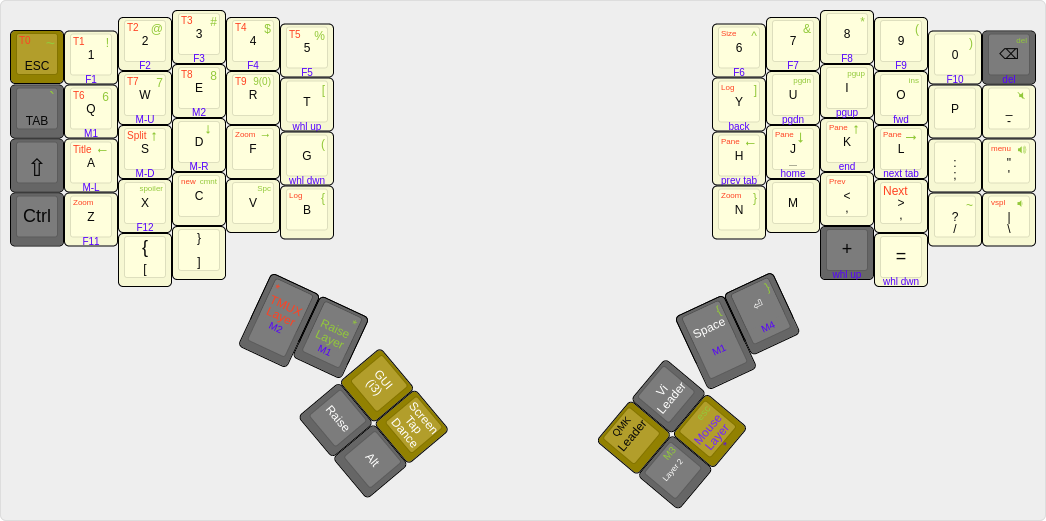
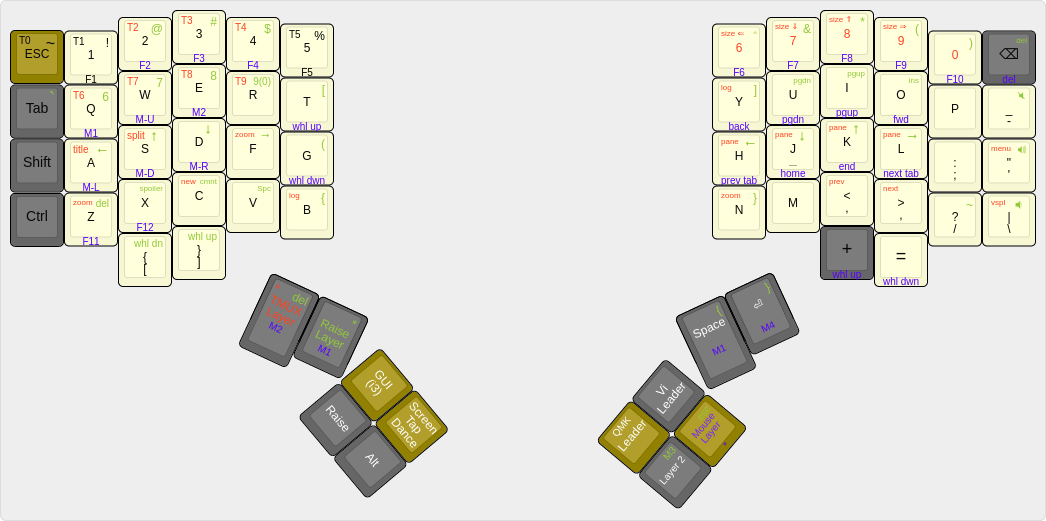
updated keymap and layout-editor files

diff --git a/keymaps/dactyl/keymap.c b/keymaps/dactyl/keymap.c
@@ -13,6 +13,8 @@
 #define _MLAYER 3
 #define _NUMLAY 4
 #define _TMUXLAY 5
+#define _LEFTONLY 6
+#define _RGHTONLY 7
 
 #define RAISE MO(_RAISE)
 #define LAYER2 MO(_LAYER2)
@@ -578,13 +580,14 @@ bool process_record_user(uint16_t keycode, keyrecord_t *record) {
             // when keycode is released
         }
         break;
-    case LOGCOM:
-        if (record->event.pressed) {
-
-        } else {
-            // when keycode is released
-        }
-        break;
+// Template
+//     case LOGCOM:
+//         if (record->event.pressed) {
+// 
+//         } else {
+//             // when keycode is released
+//         }
+//         break;
   }
     return true;
 };
@@ -750,7 +753,7 @@ const uint16_t PROGMEM keymaps[][MATRIX_ROWS][MATRIX_COLS] = {
        KC_TILD,S(KC_1),S(KC_2),S(KC_3),S(KC_4),S(KC_5),                        S(KC_6),S(KC_7),S(KC_8),S(KC_9),S(KC_0),KC_DEL,
        KC_GRV ,KC_6   ,KC_7   ,KC_8   ,TD(TD_9_0),KC_LBRC,                     KC_RBRC,KC_PGDN,KC_PGUP,KC_INS ,KC_SLCK,KC_MUTE,
        _______,KC_LEFT,KC_UP  ,KC_DOWN,KC_RGHT,KC_LPRN,                        KC_LEFT,KC_DOWN,KC_UP  ,KC_RGHT,_______,KC_VOLU,
-       _______,_______,SPOILER, CBLOCK,KC_SPC ,KC_LCBR,                        KC_RCBR,_______,_______,_______,KC_TILD,KC_VOLD,
+       _______,KC_DEL ,SPOILER, CBLOCK,KC_SPC ,KC_LCBR,                        KC_RCBR,_______,_______,_______,KC_TILD,KC_VOLD,
                                                KC_WH_U,KC_WH_D,            KC_EQL ,_______,
                                                KC_DEL ,_______,            TD(TD_LBRC),TD(TD_RBRC),
                                                _______,_______,            _______,KC_ESC,
@@ -765,6 +768,16 @@ const uint16_t PROGMEM keymaps[][MATRIX_ROWS][MATRIX_COLS] = {
                                                KC_BTN2,KC_BTN1,            KC_BTN1,KC_BTN4,
                                                _______,QWERTO ,            _______,_______,
                                                _______,_______,            _______,SNGRGHT
+  ),
+  [_TMUXLAY] = LAYOUT_5x6(
+       TMUX0  ,TMUX1  ,TMUX2  ,TMUX3  ,TMUX4  ,TMUX5  ,                        TMUXRL ,TMUXRD ,TMUXRU ,TMUXRR ,_______,_______,
+       _______,TMUX6  ,TMUX7  ,TMUX8  ,TMUX9  ,_______,                        TMUXLOG,XXXXXXX,XXXXXXX,XXXXXXX,_______,_______,
+       _______,TMUXTIT,TMUXSPL,_______,TMUXZ  ,_______,                        TMUXL  ,TMUXD  ,TMUXU  ,TMUXR  ,_______,TMUXMNU,
+       _______,TMUXZ  ,_______,TMUXNEW,_______,TMUXLOG,                        TMUXZ  ,_______,TMUXPRV,TMUXNXT,_______,TMUXVSP,
+                                               TMUXMVU,TMUXMVD,            _______,_______,
+                                               _______,_______,            TMUXMNU,TMUXLST,
+                                               _______,_______,            TMUXCMD,_______,
+                                               _______,_______,            _______,_______
   ),
   [_LAYER2] = LAYOUT_5x6(
        _______,KC_F11 ,KC_F12 ,_______,DIGCF  , LOGCOM,                        _______,_______,_______,_______,_______,KC_DEL ,
@@ -785,37 +798,27 @@ const uint16_t PROGMEM keymaps[][MATRIX_ROWS][MATRIX_COLS] = {
                                                 _______,_______,            _______,_______,
                                                 _______,_______,            _______,_______,
                                                 _______,_______,            _______,_______
-   ),
-   [_TMUXLAY] = LAYOUT_5x6(
-        TMUX0  ,TMUX1  ,TMUX2  ,TMUX3  ,TMUX4  ,TMUX5  ,                        TMUXRL ,TMUXRD ,TMUXRU ,TMUXRR ,_______,_______,
-        _______,TMUX6  ,TMUX7  ,TMUX8  ,TMUX9  ,_______,                        TMUXLOG,XXXXXXX,XXXXXXX,XXXXXXX,_______,_______,
-        _______,TMUXTIT,TMUXSPL,_______,TMUXZ  ,_______,                        TMUXL  ,TMUXD  ,TMUXU  ,TMUXR  ,_______,TMUXMNU,
-        _______,TMUXZ  ,_______,TMUXNEW,_______,TMUXLOG,                        TMUXZ  ,_______,TMUXPRV,TMUXNXT,_______,TMUXVSP,
-                                                TMUXMVU,TMUXMVD,            _______,_______,
-                                                _______,_______,            TMUXMNU,TMUXLST,
-                                                _______,_______,            TMUXCMD,_______,
-                                                _______,_______,            _______,_______
-   ),
-   [_LEFTONLY] = LAYOUT_5x6(
-        KC_ESC ,KC_1   ,KC_2   ,KC_3   ,KC_4   ,KC_5   ,                        QWERTO ,QWERTO ,QWERTO ,QWERTO ,QWERTO ,QWERTO ,
-        KC_TAB , KC_Q  , KC_W  , KC_E  , KC_R  , KC_T  ,                        QWERTO ,QWERTO ,QWERTO ,QWERTO ,QWERTO ,QWERTO ,
-        KC_LSFT, KC_A  , KC_S  , KC_D  , KC_F  , KC_G  ,                        QWERTO ,QWERTO ,QWERTO ,QWERTO ,QWERTO ,QWERTO ,
-        KC_LCTL, KC_Z  , KC_X  , KC_C  , KC_V  , KC_B  ,                        QWERTO ,QWERTO ,QWERTO ,QWERTO ,QWERTO ,QWERTO ,
-                                              KC_LBRC,KC_RBRC,              QWERTO ,QWERTO ,
-                                              TMUXLAY,RAISE  ,              QWERTO ,QWERTO ,
-                                              RAISE  ,KC_LGUI,              QWERTO ,QWERTO ,
-                                              KC_ENT ,KC_SPC ,              QWERTO ,QWERTO 
-   ),
-   [_RGHTONLY] = LAYOUT_5x6(
-        QWERTO ,QWERTO ,QWERTO ,QWERTO ,QWERTO ,QWERTO ,                        KC_6  , KC_7  , KC_8  , KC_9  , KC_0  ,KC_BSPC,
-        QWERTO ,QWERTO ,QWERTO ,QWERTO ,QWERTO ,QWERTO ,                        KC_Y  , KC_U  , KC_I  , KC_O  , KC_P  ,KC_MINS,
-        QWERTO ,QWERTO ,QWERTO ,QWERTO ,QWERTO ,QWERTO ,                        KC_H  , KC_J  , KC_K  , KC_L  ,TD(TD_SC_C),TD(TD_SQDQ),
-        QWERTO ,QWERTO ,QWERTO ,QWERTO ,QWERTO ,QWERTO ,                        KC_N  , KC_M  ,KC_COMM,KC_DOT ,KC_SLSH,KC_BSLASH,
-                                                QWERTO ,QWERTO ,            KC_PLUS, KC_EQL
-                                                QWERTO ,QWERTO ,            KC_SPC , KC_ENT
-                                                QWERTO ,QWERTO ,            KC_SCLN, MLAYER
-                                                QWERTO ,QWERTO ,            KC_LEAD, LAYER2
-   ),
+  ),
+  [_LEFTONLY] = LAYOUT_5x6(
+       KC_ESC ,KC_1   ,KC_2   ,KC_3   ,KC_4   ,KC_5   ,                        QWERTO ,QWERTO ,QWERTO ,QWERTO ,QWERTO ,QWERTO ,
+       KC_TAB , KC_Q  , KC_W  , KC_E  , KC_R  , KC_T  ,                        QWERTO ,QWERTO ,QWERTO ,QWERTO ,QWERTO ,QWERTO ,
+       KC_LSFT, KC_A  , KC_S  , KC_D  , KC_F  , KC_G  ,                        QWERTO ,QWERTO ,QWERTO ,QWERTO ,QWERTO ,QWERTO ,
+       KC_LCTL, KC_Z  , KC_X  , KC_C  , KC_V  , KC_B  ,                        QWERTO ,QWERTO ,QWERTO ,QWERTO ,QWERTO ,QWERTO ,
+                                             KC_LBRC,KC_RBRC,              QWERTO ,QWERTO ,
+                                             TMUXLAY,RAISE  ,              QWERTO ,QWERTO ,
+                                             RAISE  ,KC_LGUI,              QWERTO ,QWERTO ,
+                                             KC_ENT ,KC_SPC ,              QWERTO ,QWERTO 
+  ),
+  [_RGHTONLY] = LAYOUT_5x6(
+       QWERTO ,QWERTO ,QWERTO ,QWERTO ,QWERTO ,QWERTO ,                        KC_6  , KC_7  , KC_8  , KC_9  , KC_0  ,KC_BSPC,
+       QWERTO ,QWERTO ,QWERTO ,QWERTO ,QWERTO ,QWERTO ,                        KC_Y  , KC_U  , KC_I  , KC_O  , KC_P  ,KC_MINS,
+       QWERTO ,QWERTO ,QWERTO ,QWERTO ,QWERTO ,QWERTO ,                        KC_H  , KC_J  , KC_K  , KC_L  ,TD(TD_SC_C),TD(TD_SQDQ),
+       QWERTO ,QWERTO ,QWERTO ,QWERTO ,QWERTO ,QWERTO ,                        KC_N  , KC_M  ,KC_COMM,KC_DOT ,KC_SLSH,KC_BSLASH,
+                                               QWERTO ,QWERTO ,            KC_PLUS, KC_EQL ,
+                                               QWERTO ,QWERTO ,            KC_SPC , KC_ENT ,
+                                               QWERTO ,QWERTO ,            KC_SCLN, MLAYER ,
+                                               QWERTO ,QWERTO ,            KC_LEAD, LAYER2
+  ),
 };
 
 // Plans for single handed keyboard modes:
